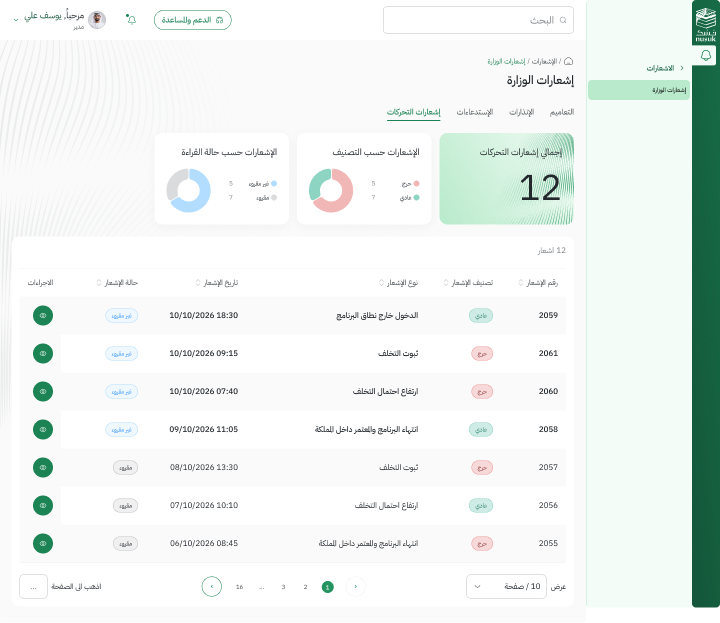
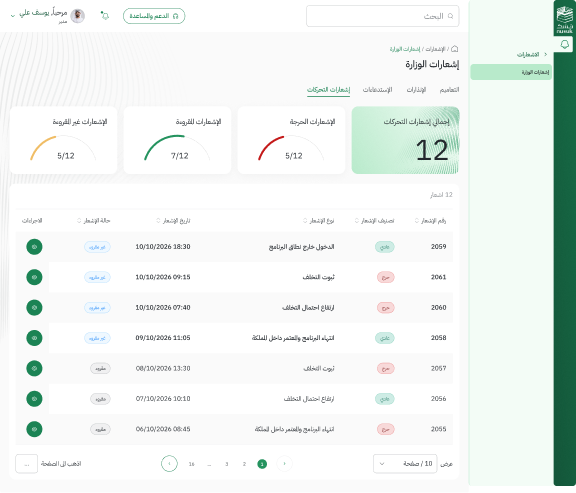
UO list: use rating_card gauges like the UO screens and the HTML
Claude-Session: https://claude.ai/code/session_01CyctH4WFBszWbBNkvnfQuz

diff --git a/CLAUDE.md b/CLAUDE.md
@@ -114,7 +114,8 @@ All four libraries are published and reachable through `search_design_system`.
     التعاميم/الإنذارات/الاستدعاءات (brown, old). Movement notifications are a new 4th tab «إشعارات التحركات» (user agreed:
     tab only, no separate side-menu item; no case codes ج-1…; classification حرج/عادي as in the HTML).
   - Frames left → right: UO 1 list `4525:22511` (clone of our green list; nav «إشعارات الوزارة»; tabs cloned from UO
-    and the selected tab recolored SA600; cards: total + donut by classification + donut by read state; columns
+    and the selected tab recolored SA600; cards follow the UO screens and the HTML: `statistics_card` total 12 + three DS `rating_card` gauges (key set `ed3d739e…`;
+    arc = Ellipse 8 arcData from 3.4203 by 2.5836×ratio; الحرجة 5/12 ruby100, المقروءة 7/12 green, غير المقروءة 5/12 straw100) — not donuts; columns
     رقم · التصنيف · النوع · التاريخ (date+time) · الحالة · eye; unread rows use Body/Bold/M) · UO 2 details critical unread
     `4527:5190` (DS `infobox` error, key `f6df6b50…`; البيانات الأساسية 10 fields; تفاصيل الإشعار with notice text,
     pilgrims table built from request_no columns, «تم الاطلاع» primary + «تصدير قائمة المعتمرين») · UO 3 after
